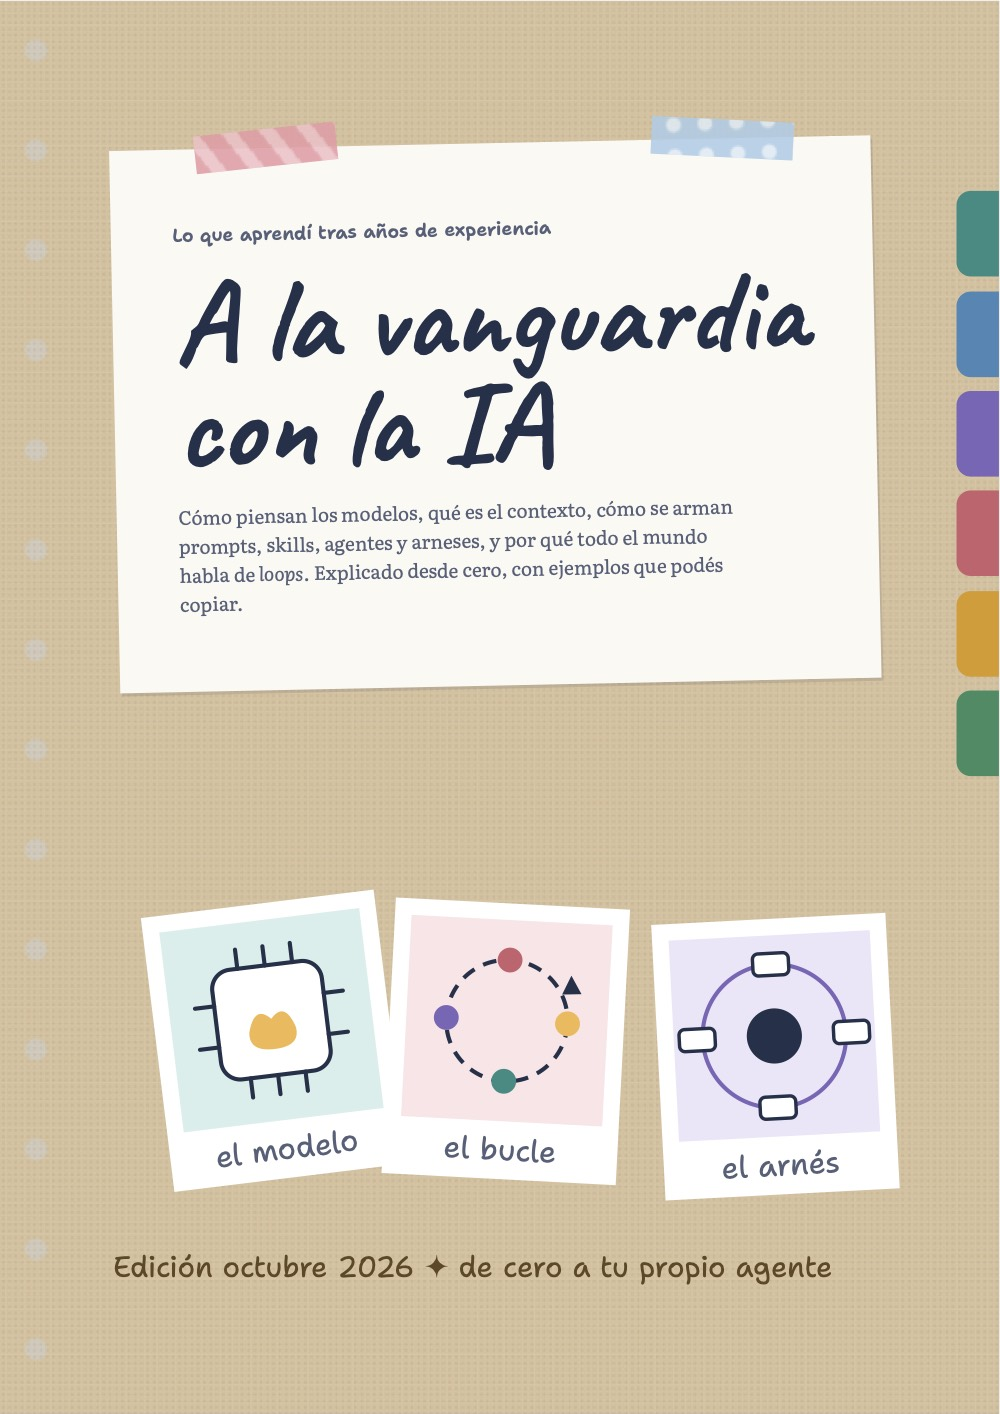
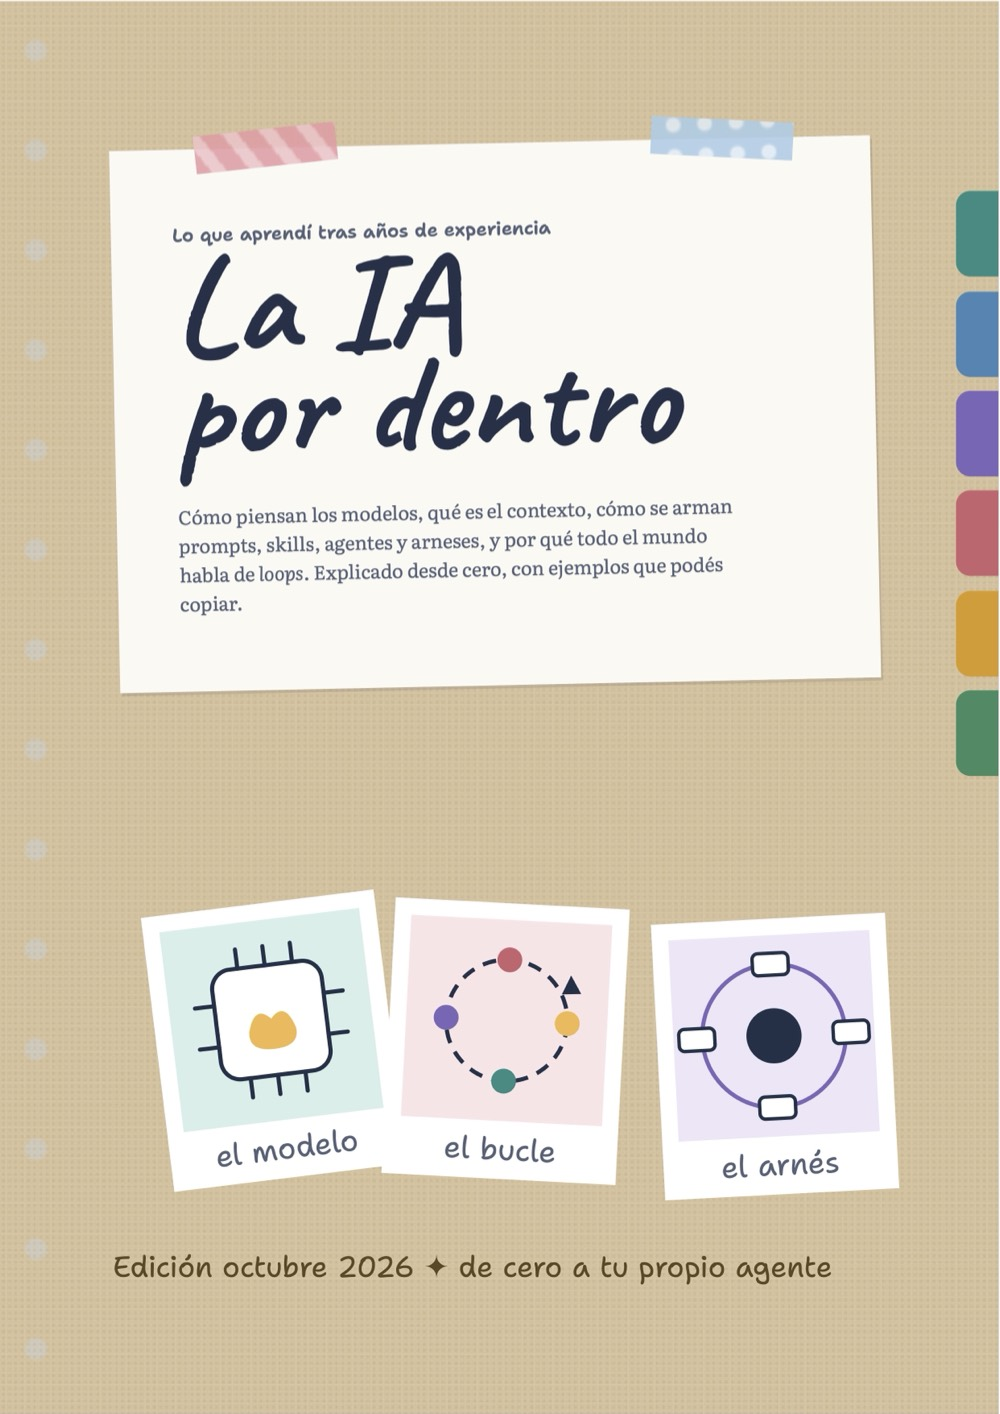
Renombrar a La IA por dentro

diff --git a/index.html b/index.html
@@ -5,14 +5,14 @@
 <meta name="viewport" content="width=device-width, initial-scale=1, viewport-fit=cover">
 <meta http-equiv="Content-Security-Policy" content="default-src 'none'; script-src 'self'; style-src 'self' https://fonts.googleapis.com; font-src https://fonts.gstatic.com; img-src 'self' data:; base-uri 'self'; form-action 'none'; upgrade-insecure-requests">
 <meta name="referrer" content="strict-origin-when-cross-origin">
-<title>A la vanguardia con la IA</title>
+<title>La IA por dentro</title>
 <meta name="description" content="Un cuaderno para entender desde cero cómo piensan los modelos, qué es el contexto y cómo se arman prompts, skills, agentes, arneses y loops.">
 <meta name="theme-color" content="#D5C19C">
 <meta property="og:type" content="website">
-<meta property="og:title" content="A la vanguardia con la IA">
+<meta property="og:title" content="La IA por dentro">
 <meta property="og:description" content="Un cuaderno para entender desde cero cómo piensan los modelos, qué es el contexto y cómo se arman prompts, skills, agentes, arneses y loops.">
-<meta property="og:url" content="https://a-la-vanguardia-con-la-ia.netlify.app/">
-<meta property="og:image" content="https://a-la-vanguardia-con-la-ia.netlify.app/img/p01.jpg">
+<meta property="og:url" content="https://laiapordentro.netlify.app/">
+<meta property="og:image" content="https://laiapordentro.netlify.app/img/p01.jpg">
 <meta property="og:locale" content="es_AR">
 <meta name="twitter:card" content="summary_large_image">
 <link rel="icon" href="favicon.svg" type="image/svg+xml">
@@ -44,7 +44,7 @@
       <div class="paper hero-card">
         <i class="tape"></i><i class="tape dots"></i>
         <p class="eyebrow">Lo que aprendí tras años de experiencia</p>
-        <h1>A la vanguardia<br>con la IA</h1>
+        <h1>La IA<br>por dentro</h1>
         <p class="lead">Cómo piensan los modelos, qué es el contexto, cómo se arman prompts, skills, agentes y arneses, y por qué todo el mundo habla de loops. Explicado desde cero, con ejemplos que podés copiar.</p>
         <div class="hero-actions">
           <a class="btn" href="#comprar">Quiero el cuaderno</a>
@@ -397,7 +397,7 @@
   <div class="wrap buy">
     <figure class="cover">
       <i class="tape"></i>
-      <img src="img/p01.jpg" width="1000" height="1417" alt="Tapa del cuaderno A la vanguardia con la IA, con tres polaroids: el modelo, el bucle y el arnés" loading="lazy">
+      <img src="img/p01.jpg" width="1000" height="1417" alt="Tapa del cuaderno La IA por dentro, con tres polaroids: el modelo, el bucle y el arnés" loading="lazy">
     </figure>
     <div class="paper buy-card">
       <i class="tape"></i>

diff --git a/README.md b/README.md
@@ -1,6 +1,6 @@
-# A la vanguardia con la IA
+# La IA por dentro
 
-Landing del ebook *A la vanguardia con la IA*. Sitio estático (HTML, CSS y JS) publicado con GitHub Pages.
+Landing del ebook *La IA por dentro*. Sitio estático (HTML, CSS y JS) publicado con GitHub Pages.
 
 - `index.html`: la página
 - `css/styles.css`: estilos
